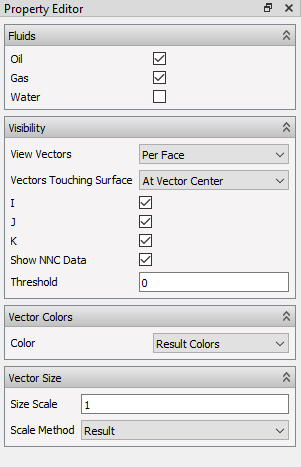
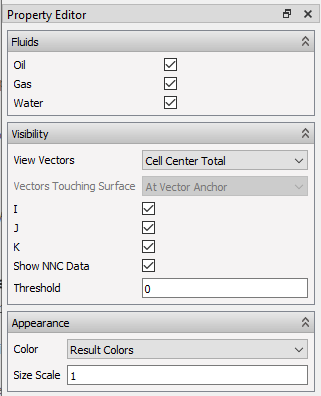
Flow Result doc update
Rewrite of  Flow Vector Result comprising both flow vectors and cell
results view including update to Cell Results doc regarding
normalization of cell face results by cell face area.

diff --git a/content/3d-main-window/FlowVectorResult.md b/content/3d-main-window/FlowVectorResult.md
@@ -1,71 +1,62 @@
 +++
-title = "Flow Vector Result"
+title = "Flow Results"
 published = true
 weight = 50
 +++
 
 ![]({{< relref "" >}}images/3d-main-window/FlowVectorResult.PNG)
 
-The Flow Vector Result View lets the user investigate fluxes by visualizing flow vectors in the reservoir. It allows for selecting and combining different fluids and directions. Selected vectors can be combined and scaled.
+Flow Results lets the user investigate flow properties and fluxes in a reservoir, e.g. by flow vector visualizations selecting and combining different fluids and directions. 
 
-The flow vectors are based on the Eclipse properties **FLRGASI/J/K FLRWATI/J/K FLROILI/J/K**
+## Flow Vectors
+Flow vectors are computed based on the Eclipse properties **FLRGASI/J/K FLRWATI/J/K FLROILI/J/K**. 
+Visualization of flow vector results always use velocity instead of rate. Velocity is computed as flow rate divided by cell face area.
 
-### Open the Flow Vector Result View
-
-In order to show Flow Vector Results, select and check the checkbox next to **Flow Vector Result** in the **Project Tree**.
+In order to show flow vectors, check the checkbox next to **Flow Vector Result** in **Project Tree**. 
 
 ![]({{< relref "" >}}images/3d-main-window/FlowVectorResultMenu.PNG)
 
-The 3D View gets updated with arrows visualizing the fluxes. The directions, data source fluids, color, scale and threshold can be adjusted in the Property Editor.
+This updates the 3D View with arrows visualizing the fluxes for the given time step or animation. The directions, data source fluids, color, scale and threshold can be adjusted in the Property Editor.
 
-### Legend
+The legend in 3D View maps the Flow Vector colors to their respective result values. By default it shows the max values for all time steps. The legend settings can be changed in the **Color Legend** sub item of the **Flow Vector Result** item in **Project Tree**.
 
 ![]({{< relref "" >}}images/3d-main-window/FlowVectorResultLegend.PNG)
 
-The legend maps the Flow Vector colors to their respective result values. By default it shows the max values for all time steps. The legend settings can be changed in the **Color Legend** sub item of the **Flow Vector Result** item in the **Project Tree**.
+{{% notice note %}}
+When combining several fluids, the max value shown in legend is an aggregation of the single max values of each selected fluid. This means that this number might be higher than the result of any flow vector.
+{{% /notice %}}
 
-**Note:**\
-When combining several fluids, the max value shown in the legend is an aggregation of the single max values of each selected fluid. This means that this number might be higher than the result of any flow vector.
 
 
-### Adjust the View
-
-In the *Property Editor*, there are four different settings groups.
+## Flow Vector Settings
 
 ![]({{< relref "" >}}images/3d-main-window/FlowVectorResultProperties.PNG)
 
-#### Fluids
-The fluxes of the fluids selected here are shown as aggregated vectors in the 3D view.
+The Property Editor controls the following settings:
 
-#### Visibility
+- **Fluids**: Selection of fluids for displaying fluxes as aggregated vectors in 3D view.
 
-**View Vectors**
-- **Per Face:** Show one flow vector per cell face. Each direction has its own vector.
-- **Cell Center Total:** Show only one vector per cell, located at the cell's center position. This vector is an aggregation of all single direction vectors.
+- **Visibility**
 
-**Vectors Touching Surface** (only enabled when **View vectors** is set to **Per Face**)
-- **At vector anchor:** The vectors are starting at the cells' faces.
-- **At vector center:** The vectors' centers are located at the cell's faces.
+  -- **View Vectors**: Select *Per Face* to show one flow vector per cell face or *Cell Center Total* to show only one vector per cell center (as an aggregation of all single direction vectors).
 
-**I/J/K**
-- Use flows in **I/J/K** direction for computing vectors.
+  -- **Vectors Touching Surface**: Select *At Vector Anchor* to display vectors starting at cell faces or *At Vector Center* to center vectors at cell faces. 
+     *Vectors Touching Surface* is enabled when *View vectors* is set to *Per Face*.
 
-**Show NNC data**
-- Visualize flows between non-neighbouring cells.
+  -- **I/J/K**: Use flows in I/J/K direction for computing vectors.
 
-**Threshold**
-- All vectors with flow result values below this number are hidden.
+  -- **Show NNC data**: Visualize flows between non-neighbouring cells.
 
-#### Vector Colors
-- **Result Colors:** Color vectors in the flow result color according to the *Element Vector Result* legend shown in the 3D View.
-- **Uniform:** Color vectors in a uniform color.
+  -- **Threshold**: All vectors with flow result values below this number are hidden.
 
-#### Vector Size
+- **Appearance**: Select *Result Colors* to color vectors according to *Element Vector Result* legend in 3D View or *Uniform* for uniform color. Use *Size Scale* to scale vector length.
 
-**Size Scale**
-- Scales the length of the vectors by this value.
+  
+## Cell Result View
+ResInsight may visualize intercell flows, flow rates, and transmissibilities as *Cell Results* optionally divided by face area, c.f. check-box *Divide By Area* below.
+For instance, the option enables comparison of horisontal and vertical flow velocities as alternative to flow rates as the latter is typically influenced by significant differences in cell face areas.
 
-**Scale Method**
-- **Result:** Scale the vectors according to their flow result value.
-- **Result (logarithmically):** Scale the vectors according to their flow result value but in a logarithmic scale. **Note:** all values are increased by 1 in order to be able to properly show flow result values smaller than 1.*
-- **Constant:** All vectors have the same constant length.
+![]({{< relref "" >}}images/3d-main-window/FlowRateCellResultAndLegend.png)
+
+Specifically, the check-box *Divide By Area* is applicable to Eclipse properties *FLROIL, FLRGAS, FLRWAT, FLOOIL, FLOGAS, FLOWAT*, and transmissibilities *TRAN* and *riTRAN*.
+These results are listed in ResInsight postfixed by *IJK+-* or *XYZ* as shown above. As seen, checking *Divide By Area* is reflected by text */A* in legend.  

diff --git a/content/3d-main-window/CellResults.md b/content/3d-main-window/CellResults.md
@@ -46,6 +46,8 @@ Difference options are:
 - **Difference Case** -- Base case for calculation of difference
 - **Base Time Step** -- Base time step for calculation of difference
 
+For [some cell face results]({{< relref "flowvectorresult" >}}#cell-result-view), it is possible to normalize the results by cell face area.
+
 {{% notice note %}}
 The difference option is not applicable for TERNARY result display.  
 {{% /notice %}}
